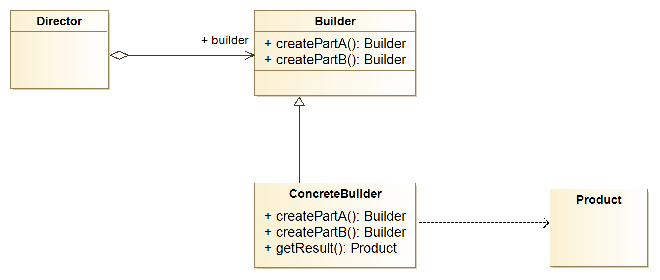
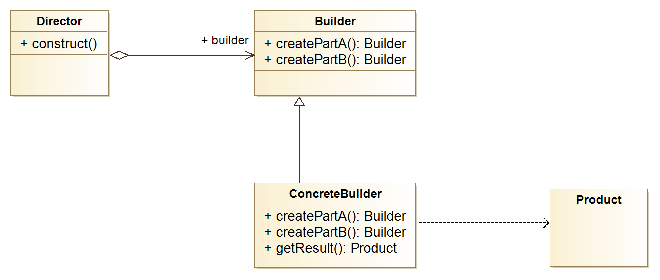
completed design patterns article

Changed region(s): [[0.0, 0.3143, 0.1818, 0.3714], [0.0303, 0.1429, 0.1515, 0.2]]

diff --git a/docs/week13/articles/design-patterns.md b/docs/week13/articles/design-patterns.md
@@ -1,32 +1,34 @@
 
 # Weitere wichtige Design Patterns
 
-*In diesem Artikel schauen wir uns einige weitere wichtige Design Patterns an, die Sie wahrscheinlich in der Praxis immer wieder antreffen werden. Es gibt jedoch noch viele andere wichtige Design Patterns, die sie im Verlauf ihrer Karriere erlernen müssen. Da sich jedoch mit der Entwicklung des Gebiets und der Programmiersprache, auch die wichtigen Design Patterns ändern, ist das erlernen der relevanten Patterns eher Teil des Berufsalltags von Softwareingenieuren.*
+*In diesem Artikel schauen wir uns einige weitere wichtige Design Patterns an, die Sie wahrscheinlich in der Praxis immer wieder antreffen werden, und die auch in Ganttproject eingesetzt wurden. 
+Es handelt sich aber nur um ein kleine Auswahl von der grossen Anzahl von Patterns, die in der Praxis eingesetzt werden. Im Verlauf ihrer Karriere werden Sie wahrscheinlich noch viele weitere Patterns kennenlernen.
+Da der Katalog der relevanten Patterns sich laufend ändert, gehört das erlernen der aktuell relevanten Patterns zum Berufsalltags von Softwareingenieuren.*
 
 ## Das Singleton Pattern
 
-Das allereinfachste Designpattern ist das *Singleton pattern*. Es wird angewendet, wenn wir sicher stellen wollen, dass nur eine Instanz von einer Klasse erstellt wird. Das *Singleton* Pattern ist also ein weiteres Beispiel eines Erzeugungsmusters.
+Das allereinfachste Designpattern ist das *Singleton Pattern*. Es wird angewendet, wenn wir sicher stellen wollen, dass nur eine Instanz von einer Klasse erstellt wird. Das *Singleton* Pattern ist also ein weiteres Beispiel eines Erzeugungsmusters.
 
-#### Beispiele
-Beispiele dafür gibt es viele: So sollte in einem Betriebssystem immer nur ein Window-Management-System aktiv sein, das alle Fenster verwaltet. Beim Drucken laufen alle Aufträge über genau einen *Druckerspooler*. Oder wir wollen, dass wir genau über ein Objekt Zugriff auf die Konfiguration eines Systems haben. 
+Beispiele von Designproblemen wo der Einsatz eines Singletons Sinn macht gibt es viele: So sollte in einem Betriebssystem immer nur ein Window-Management-System aktiv sein, das alle Fenster verwaltet. Beim Drucken laufen alle Aufträge über genau einen *Druckerspooler*. Oder wir wollen, dass wir genau über ein Objekt Zugriff auf die Konfiguration eines Systems haben. 
 
 #### Klassen- und Sequenzdiagramm
 
-Das Klassendiagramm ist sehr einfach. Es gibt nur eine Klasse, nämlich die, von der die Instanz erstellt werden soll. 
+Die Struktur dieses Patterns ist sehr einfach. Das Klassendiagramm besteht nur aus einer Klasse, nämlich die, von der die Instanz erstellt werden soll. 
 <figure>
     <img src="../../slides/images/patterns-singleton-class.png" class="plain" />
 </figure>
-Um eine Instanz der Klasse zu erstellen, wird die statische Methode ```getInstance``` benutzt. Der Konstruktor ist ```private```, so dass der Nutzer der Klasse nur via der ```getInstance``` Methode eine neue Instanz erstellen können. 
 
-Üblicherweise gehört zur Beschreibung eines Design Patterns auch noch ein Sequenzdiagramm, welches die Dynamik erklärt. Diese ist beim Singleton Pattern trivial. Wir geben das Sequenzdiagramm der  vollständigkeithalber hier trotzdem an:
+Um eine Instanz der Klasse zu erstellen, wird die statische Methode ```getInstance``` benutzt. Der Konstruktor ist ```private```, so dass der Nutzer der Klasse gezwungen wird, die ```getInstance``` Methode zu verwenden, um eine Referenz auf die Klasse zu erlangen.
+
+Üblicherweise gehört zur Beschreibung eines Design Patterns auch noch ein Sequenzdiagramm, welches die Dynamik erklärt. Auch dies ist beim Singleton Pattern trivial. Wir geben das Sequenzdiagramm der  vollständigkeithalber hier trotzdem an:
 
 <figure>
     <img src="../../slides/images/patterns-singleton-sequence.png" class="plain" />
 </figure>
 
-#### Beispiel code
+#### Beispielcode
 
-Die einfachste Implementation ist hier gezeigt:
+Die einfachste Implementation des Singleton Patterns ist hier gezeigt:
 ```
     public final class Singleton {
         private static final Singleton instance = new Singleton();
@@ -39,8 +41,7 @@ Die einfachste Implementation ist hier gezeigt:
     }
 ``` 
 
-Der Nutzer der Klasse kann nun via der ```getInstance``` Methode eine Referenz auf  die in der Klasse erstellte, einzige, Instanz erhalten.
-
+Eine Referenz eines Singleton Objekts wird, wie bereits besprochen, durch den Aufruf der ```getInstance``` Methode erlangt.
 ```
 Singleton singletonInstance = Singleton.getInstance()
 ```
@@ -48,7 +49,7 @@ Singleton singletonInstance = Singleton.getInstance()
 
 ## Builder Pattern
 
-Ein weiteres Beispiel eines Erzeugungsmusters ist das *Builder Pattern*. Das Builder Pattern wird immer dann eingesetzt wenn ein  komplexes Objekts erstellt werden soll. Die Erzeugung des Objekts soll unabh&auml;ngig von den Teilen sein, aus denen das Objekt besteht. Der Nutzer soll auch nicht wissen müssen,  wie die Teile intern zusammengesetzt sind.
+Ein weiteres Beispiel eines Erzeugungsmusters ist das *Builder Pattern*. Das Builder Pattern wird immer dann eingesetzt wenn die Erzeugung eines Objekts umständlich oder komplex ist. Das Builder Pattern erreicht, dass die Erzeugung des Objekts unabh&auml;ngig von den Teilen, aus denen das Objekt besteht. Der Nutzer soll auch nicht wissen müssen,  wie die Teile intern zusammengesetzt sind.
                  
 Als Beispiel schauen wir uns folgendes Objekt an:
 ```                 
@@ -63,7 +64,7 @@ class Task {
 ```
 Um ein Objekt via dem Konstruktor zu konstruieren, müssten wir nun 26 Argumente angeben. Auch wenn die Sprache mehrere Konstruktoren in einer Klasse unterstützt, ist es nicht möglich, für alle möglichen Untermengen spezielle Konstruktoren anzubieten. Die Anzahl der Konstruktoren würde explodieren. 
 
-Mit dem Builder Pattern können wir dieses Problem auf elegante Weise lösen. Der Benutzer schreibt um ein Objekt bestehend aus Teil A und TeilZ zu erstellen folgendes:
+Mit dem Builder Pattern können wir dieses Problem auf elegante Weise lösen. Der Stellen eine Schnittstelle zur Verfügung, mit dem der Benutzer, nur die von ihm gewünschten Teile (Hier Teil A und Teil Z) initialisieren kann. Das gesamte Objekte wird dann intern beim Aufruf der Methode ```getResult``` erstellt. 
 ```
 new Builder().createPartA("5").createPartZ(1.0).getResult();
 ```
@@ -71,7 +72,9 @@ new Builder().createPartA("5").createPartZ(1.0).getResult();
  
  #### Klassen und Sequenzdiagramm
 
-Die Implementation besteht aus einer abstrakten Klasse Builder, die die Konstruktion steuert. Konkrete Builder Implementation können die Kreierung des Objekts unterschiedlich implementieren. Für jedes Teil gibt es eine separate *create* Methode. Häufig wird in der Create Methode wieder das Builder Objekt zurückgegeben, damit man die verschiedenen create Methoden wie in obigem Beispiel direkt hintereinander angeben kann. Wenn das Produkt erstellt ist, kann  mit der Methode ```getResult``` auf das Objekt erstellt und dem Benutzer zurückgegeben.
+Die Implementation besteht aus einer abstrakten Klasse Builder, die die Konstruktion steuert. Konkrete Builder Implementation können die Kreierung des Objekts unterschiedlich implementieren. Für jedes Teil gibt es eine separate *create* Methode. Häufig wird in diese *create* Methode wieder das Builder Objekt zurückgegeben, damit man die Methodenaufrufe wie in obigem Beispiel direkt hintereinander angeben kann. Wenn das Produkt erstellt ist, kann  mit der Methode ```getResult``` eine Referenz auf das konstruierte Objekt erlangt werden.
+
+Es gibt verschiedene Varianten des Builder Patterns. Im allgemeinsten Fall wird zusätzlich noch eine Separate Klasse *Director* eingeführt, die die Konstruktion, das heisst der Aufruf der verschiedenen Create Methoden durchführt. Dies kann aber auch, wie in obigem Beispiel, direkt vom Nutzer gemacht werden.
 
 <img src="../../slides/images/patterns-builder-class.png" class="plain" />
 
@@ -79,7 +82,8 @@ Die Implementation besteht aus einer abstrakten Klasse Builder, die die Konstruk
 
 #### Beispiel (adaptiert aus Ganttproject)
 
-Das Builder Pattern wird in Ganttproject an verschiedenen Stellen eingesetzt. Wir zeigen hier die wichtigsten Teile vom ```TaskBuilder```. Wir sehen, dass die Strategie genau dem beschriebenen Muster entspricht. 
+Das Builder Pattern wird in Ganttproject an verschiedenen Stellen eingesetzt. Wir zeigen hier die wichtigsten Teile vom ```TaskBuilder```. In der in Ganttproject verwendeten Variante, wird kein Director eingesetzt, sondern die create Methoden (also ```withId```, ```withDuration```, ...) werden direkt vom Nutzer der Klasse aufgerufen.
+
 
  ```   
     abstract class TaskBuilder {                        
@@ -126,7 +130,7 @@ Nutzung:
  
 Wir kommen nun zu einem Beispiel eines Strukturmusters. 
 Das *Facade Pattern* löst dabei folgendes Problem:
-Wenn ein Projekt stark modularisiert ist, kann es vorkommen, dass eine einzelne Klasse viele andere Module nutzen muss, um eine Funktionalität zu erfüllen. Das bedeutet, die Klasse wird eine hohe Kopplung aufweisen. 
+Wenn ein Projekt stark modularisiert ist, muss eine Klasse unter Umständen viele andere Module nutzen, um ihre Funktionalität zu erfüllen. Das bedeutet, die Klasse wird eine hohe Kopplung aufweisen, was wir ja eigentlich vermeiden möchten.
 
 Als konkretes Beispiel nehmen wir eine GUI Anwendung. Wenn ein Client eine GUI ansteuer möchte, brauchen dieser oft gleichzeitig Window, Statusbar, Menubar, etc. Das heisst, der Client koppelt sich an alle diese GUI Elemente. Erschwerend kommt hinzu, dass die Schnittstellen eventuell auch noch inkonsistent sind. 
 
@@ -146,6 +150,9 @@ Dieses Verhalten ist auch nochmals im Sequenzdiagramm dargestellt.
 
 
 #### Beispiel aus Ganttproject
+
+In Ganttproject wird das Facade Pattern unter anderem für die Ansteuerung der UI genutzt. Die Klasse ```UIFacade``` stellt eine einfach zu benutzende Schnittstelle zur Verfügung, um 
+mit der UI zu interagieren.
 
 ```
 class UIFacade {
@@ -173,20 +180,28 @@ Verhaltensmusters. Das *Observer Pattern* wird häufig in GUI Bibliotheken, wie 
 Das *Observer Pattern* kann immer dann eingesetzt werden, wenn 
 eine Menge von Objekten über eine Zustands&auml;nderungen informiert werden, muss, ohne dass man die Klassen eng aneinander koppeln will.                         
 Als Beispiel können wir dafür eine Tabellenkalkulation nehmen. 
-Hier werden die Daten (die Inhalte der Zellen) von der graphischen Darstellung getrennt. Wenn sich die Daten ändern, sollte folgendes Objekte aktuallisiert werden:
+Hier werden die Daten (die Inhalte der Zellen) von der graphischen Darstellung getrennt. Wenn sich die Daten ändern, sollten folgende Objekte aktualisiert werden:
 * alle den Daten entsprechenden Zellen
-* Alle Diagramme, die auf die Daten zugreifen sollten aktualiert werden
+* Alle Diagramme, die auf die Daten zugreifen 
 * Alle Berechnungen, die auf die entsprechenden Zellen zugreifen. 
 
 Da diese Objekte aber sonst semantisch nichts miteinander zu tun haben, möchte man diese nicht stark koppeln. 
 
 #### Klassen- und Sequenzdiagramm
 
+Das Problem wird gelöst, indem eine Klasse (hier ```Subject```) Methoden zur Registrierung von beliebig vielen ```Observern```  anbietet. Alle Observer werden in einer Liste verwaltet. 
+
 <img src="../../slides/images/patterns-observer-class.png" class="plain" />
+
+Wenn sich der Zustand eines Objekts vom Typ ```Subject``` ändert, wird die Methode ```notifyObservers``` aufgerufen. Diese informiert, via der ```update``` Methode, alle registrierten Observer, dass sich 
+der Zustand des Objekts verändert hat. Die Observer können dann entsprechen den neuen Zustand abfragen und die entsprechenden Aktionen durchführen. 
 
 <img src="../../slides/images/patterns-observer-sequence.png" class="plain" />
 
 #### Beispiel aus Ganttproject
+
+Ein Beispiel, wo dieses Pattern in Ganttproject eingesetzt ist, ist die Klasse ```RoleManager``. Hier können sich Objekte via der Methode ```addRoleListener``` als observer eintragen, und 
+werden dann über entsprechende Änderungen in der Rolle informiert (Methode ```fireRolesChanges```).
 
 ```
 public interface RoleManager {
@@ -208,7 +223,8 @@ public interface RoleManager {
         }
     }
 ```
-
+Ein Beispiel eines Observers ist in diesem Fall ```ResourceTreeTable```. Die Klasse registriert einen Observer (hier die anonyme Klasse ```RoleManager.Listener```), welche 
+dann in der Methode ```rolesChanged``` die entsprechenden Aktionen definiert. 
 ```
 public class ResourceTreeTable extends GPTreeTableBase {
     ...
